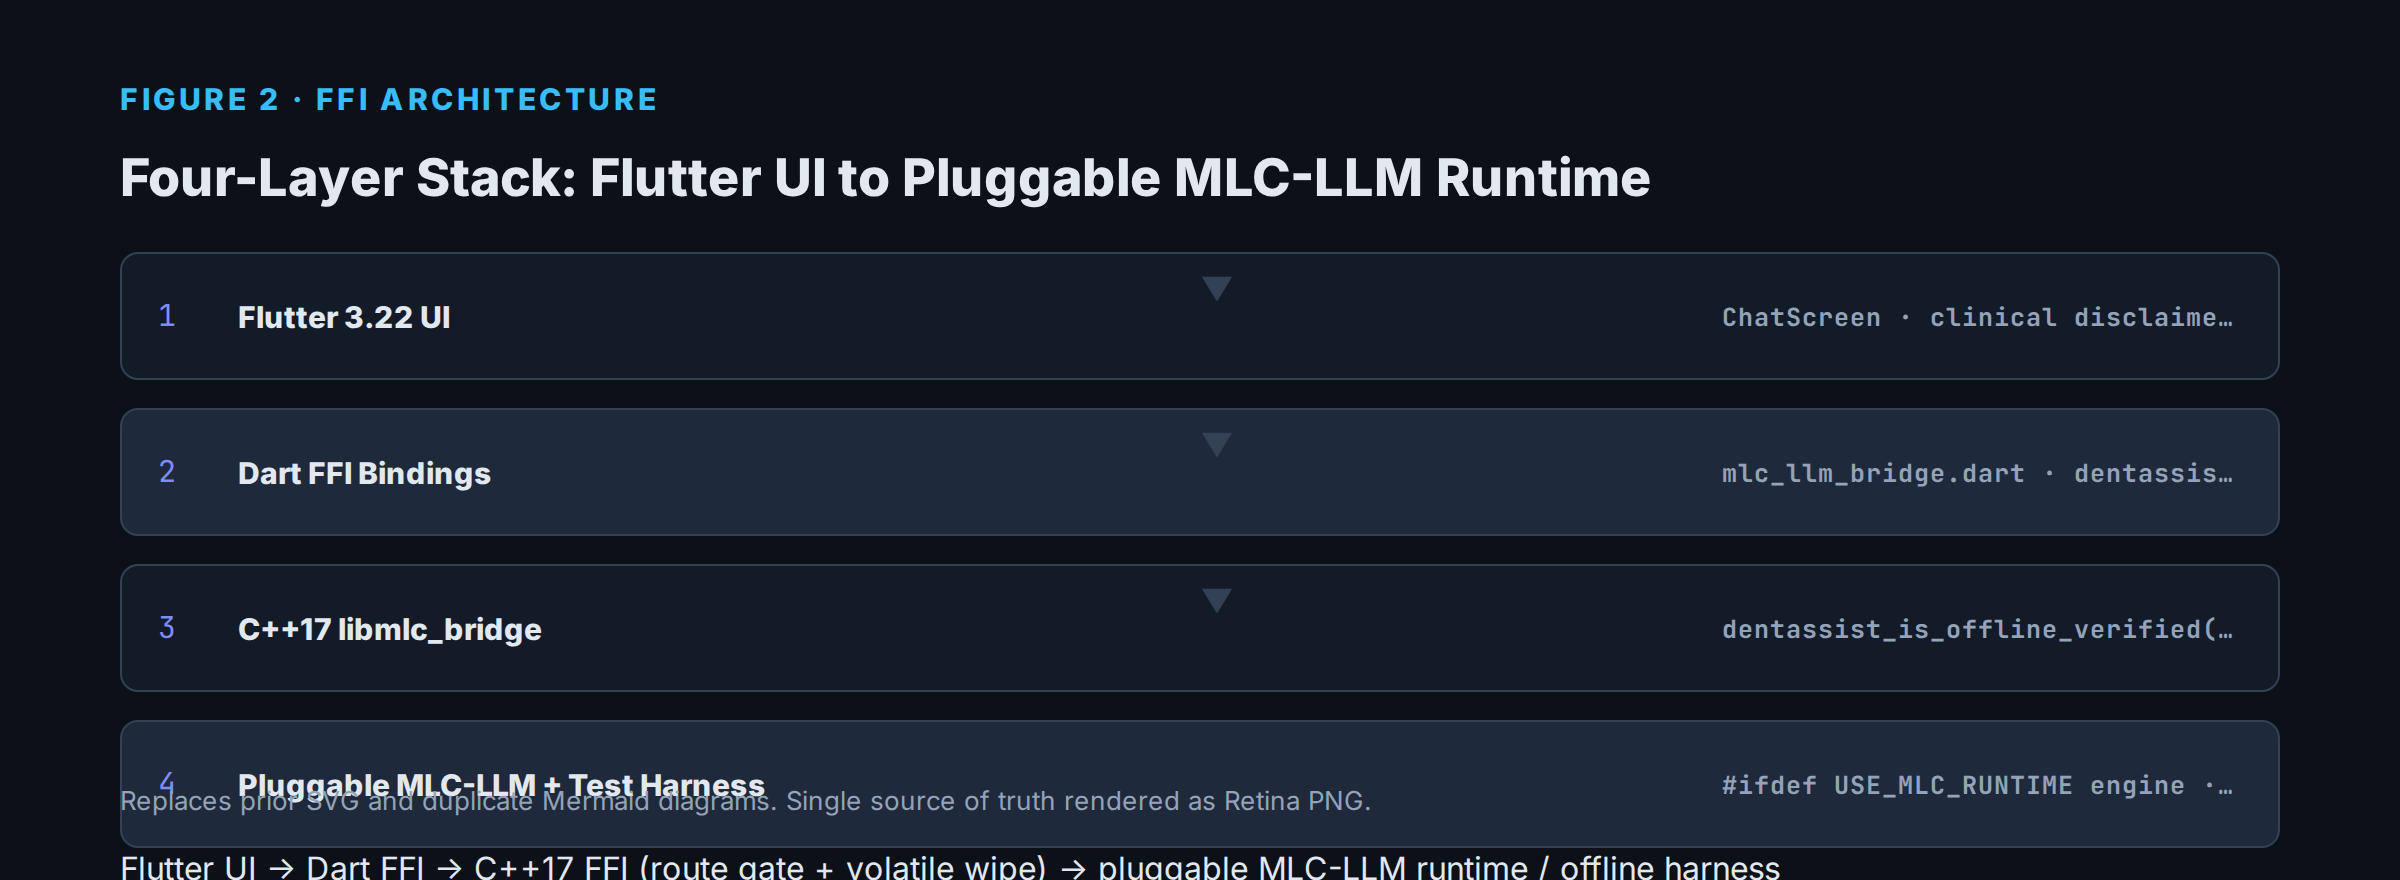
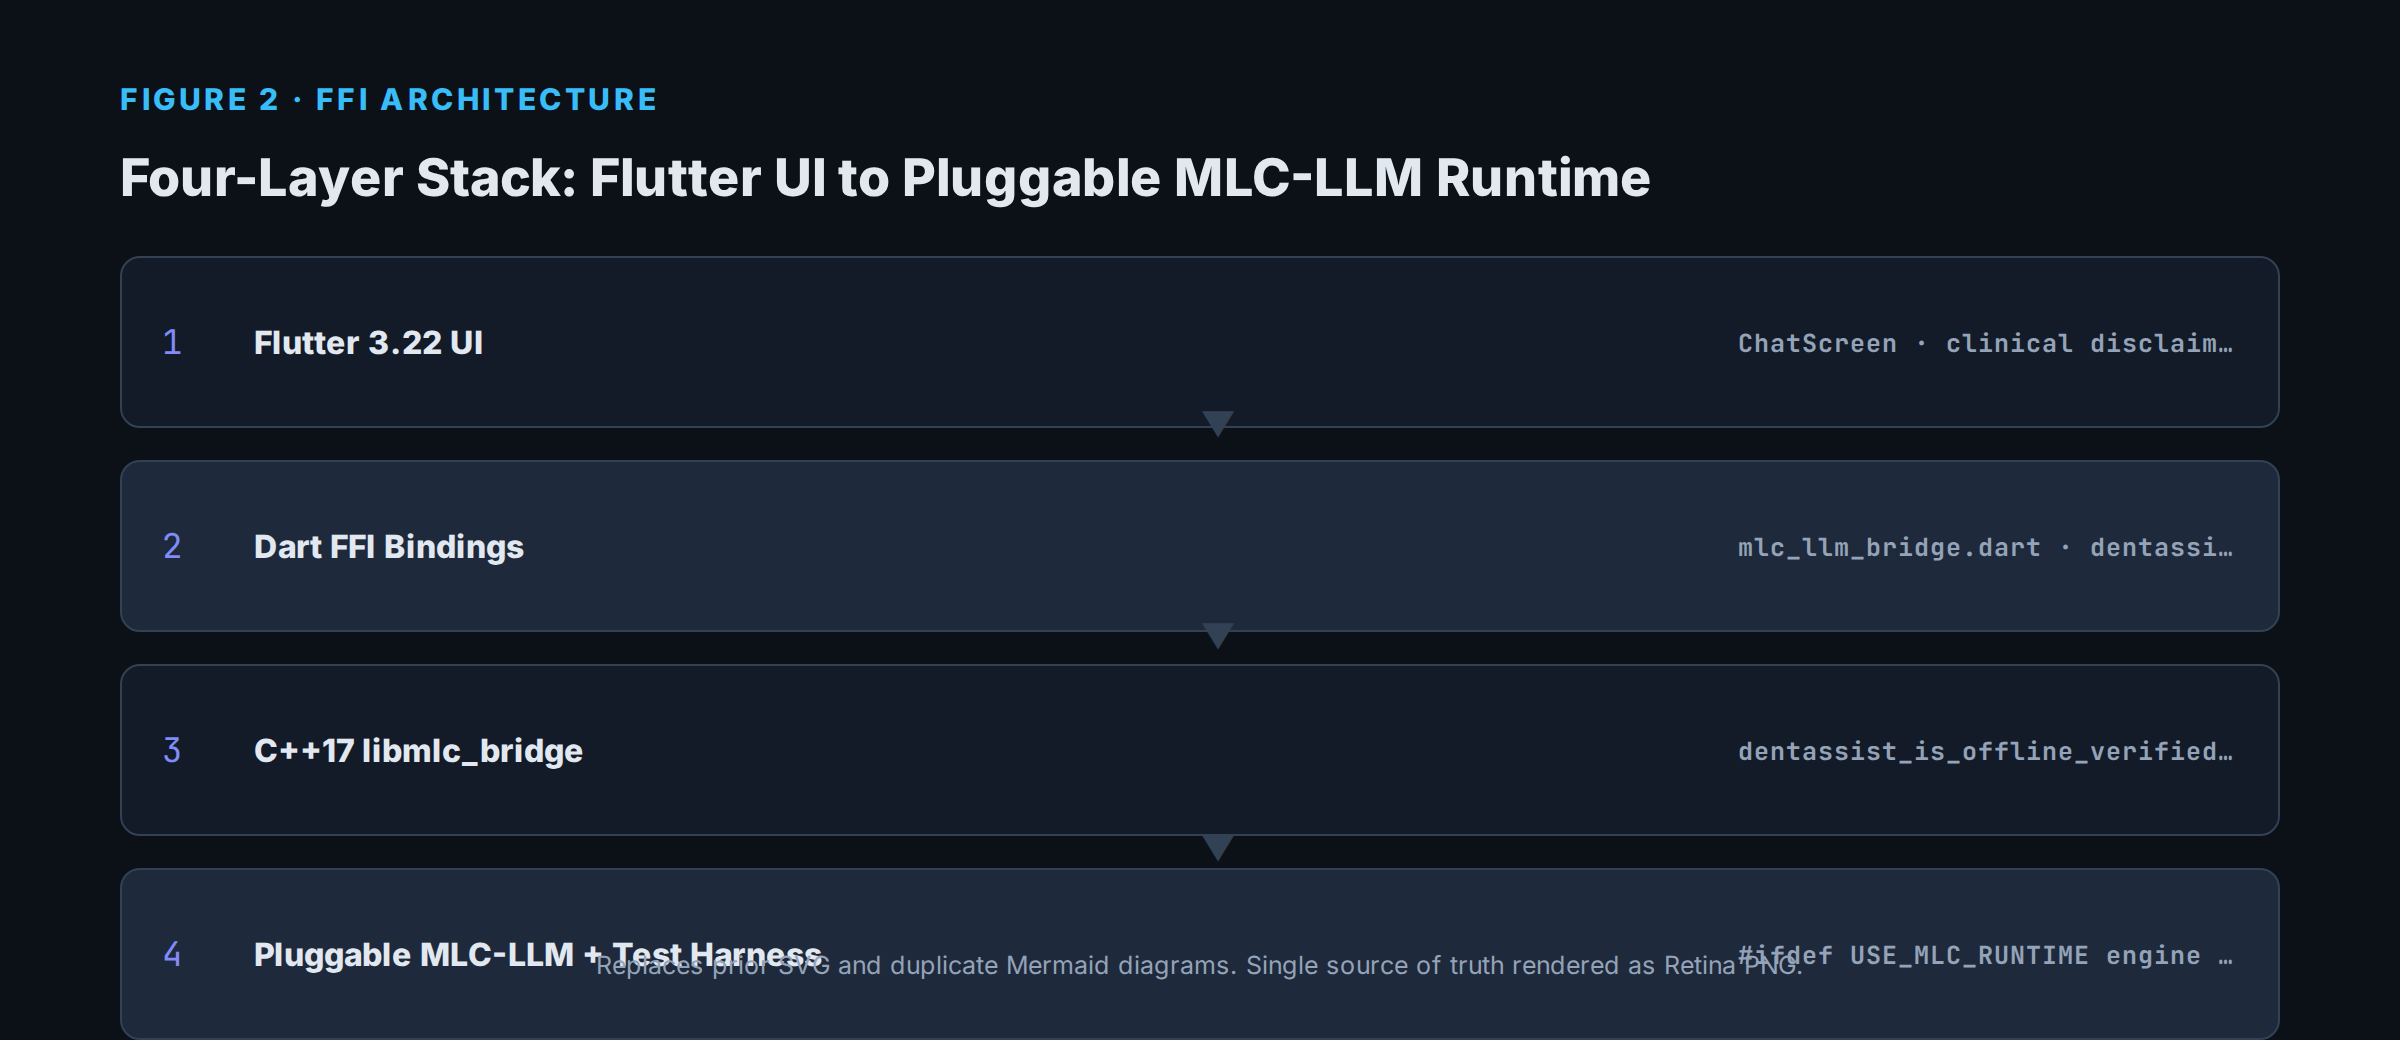
fix(docs): re-render Retina visual suite with correct bar math and non-overlapping layout
Rewrite scripts/build_readme_visuals.py renderers so every figure uses
correct layout math (bar heights from data/ffi_benchmark_results.json,
non-overlapping positioned elements, generous padding, consistent
typography/palette).

Fixes:
- fig3 bar charts (Panels A/B/C/D) rendered as tiny slivers with
  colliding x-axis labels; bars now draw at correct heights with
  non-colliding value/axis labels.
- fig2 four-layer stack cards overlapped text and the foot caption;
  cards re-spaced with separated bottom caption.
- hero and social preview polished for consistency.

Re-rendered all five Retina PNGs via Playwright (2400px @2x logical):
hero_banner, fig1_airgap_security_model, fig2_ffi_architecture,
fig3_empirical_ffi_benchmarks, social_preview.

diff --git a/scripts/build_readme_visuals.py b/scripts/build_readme_visuals.py
@@ -58,7 +58,7 @@ TEXTM   = "#94a3b8"   # secondary
 ACCENT  = "#38bdf8"   # cyan
 ACCENT2 = "#818cf8"   # indigo
 OK      = "#22c55e"
-WARN    = "#f87171"
+WARN    = "#ef4444"
 LINE    = "#334155"
 
 PLAYWRIGHT_PY = "/home/drnemo/projects/portfolio_overhaul/DrNemo-Caries-Foundry/.venv/bin/python"
@@ -91,8 +91,6 @@ p.stop()
         print("STDERR:", r.stderr)
         raise SystemExit(f"Playwright render failed for {name}")
     os.unlink(tmppath)
-
-print("Visual suite renderer module loaded. Run build_figures() to render.")
 
 
 # =====================================================================
@@ -169,8 +167,8 @@ def render_fig1():
     .col.b{{background:{ELEV};}}
     .t{{font-size:16px;font-weight:700;margin:0 0 12px 0;}}
     .t.a{{color:{WARN};}}.t.b{{color:{OK};}}
-    .item{{display:flex;align-items:center;gap:10px;margin:0 0 10px 0;font-size:14px;line-height:1.45;color:{TEXTM};}}
-    .dot{{width:8px;height:8px;border-radius:50%;flex:0 0 auto;}}
+    .item{{display:flex;align-items:flex-start;gap:10px;margin:0 0 10px 0;font-size:14px;line-height:1.45;color:{TEXTM};}}
+    .dot{{width:8px;height:8px;border-radius:50%;flex:0 0 auto;margin-top:2px;}}
     .dot.a{{background:{WARN};}}.dot.b{{background:{OK};}}
     .foot{{margin-top:14px;font-size:13px;color:{TEXTM};}}
     b.clr{{color:{TEXT};}}
@@ -204,22 +202,23 @@ def render_fig1():
 
 
 def render_fig2():
-    logical_w, logical_h = 1200, 440
+    logical_w, logical_h = 1200, 520
     css = f"""
     html,body{{margin:0;padding:0;width:{logical_w}px;height:{logical_h}px;
       background:{BG};color:{TEXT};font-family:'Inter',sans-serif;overflow:hidden;}}
     .wrap{{position:relative;width:100%;height:100%;padding:40px 60px;box-sizing:border-box;}}
     .kicker{{font-size:15px;font-weight:700;letter-spacing:0.12em;color:{ACCENT};text-transform:uppercase;margin:0 0 14px 0;}}
-    h2{{font-size:26px;font-weight:800;margin:0 0 22px 0;line-height:1.2;}}
-    .layers{{display:flex;flex-direction:column;gap:14px;width:100%;}}
-    .layer{{display:flex;align-items:center;gap:14px;height:64px;border:1px solid {LINE};border-radius:9px;padding:0 18px;box-sizing:border-box;overflow:hidden;}}
+    h2{{font-size:26px;font-weight:800;margin:0 0 24px 0;line-height:1.2;}}
+    .layers{{display:flex;flex-direction:column;gap:16px;width:100%;}}
+    .layer{{display:flex;align-items:center;gap:16px;height:86px;border:1px solid {LINE};border-radius:10px;padding:0 20px;box-sizing:border-box;overflow:hidden;}}
     .layer.l1{{background:{PANEL};}}.layer.l2{{background:{ELEV};}}
     .layer.l3{{background:{PANEL};}}.layer.l4{{background:{ELEV};}}
-    .num{{font-family:'JetBrains Mono',mono;font-size:15px;font-weight:700;color:{ACCENT2};flex:0 0 auto;width:26px;}}
-    .name{{font-size:15px;font-weight:700;color:{TEXT};flex:1;min-width:0;}}
-    .desc{{font-size:12.5px;color:{TEXTM};font-family:'JetBrains Mono',mono;white-space:nowrap;overflow:hidden;text-overflow:ellipsis;max-width:260px;}}
-    .arr{{position:absolute;left:50%;color:{LINE};font-size:16px;font-weight:800;}}
-    .foot{{position:absolute;bottom:30px;left:60px;right:60px;font-size:13px;color:{TEXTM};line-height:1.5;}}
+    .num{{font-family:'JetBrains Mono',mono;font-size:17px;font-weight:800;color:{ACCENT2};flex:0 0 auto;width:30px;}}
+    .name{{font-size:16px;font-weight:700;color:{TEXT};flex:1;min-width:0;}}
+    .desc{{font-size:12.5px;color:{TEXTM};font-family:'JetBrains Mono',mono;white-space:nowrap;overflow:hidden;text-overflow:ellipsis;max-width:250px;}}
+    .arr{{position:absolute;left:50%;color:{LINE};font-size:17px;font-weight:800;}}
+    .flow{{margin-top:14px;font-size:14px;color:{TEXTM};font-family:'JetBrains Mono',mono;white-space:nowrap;overflow:hidden;text-overflow:ellipsis;}}
+    .foot{{position:absolute;bottom:28px;left:60px;right:60px;font-size:12.5px;color:{TEXTM};line-height:1.45;text-align:center;}}
     b.mono{{font-family:'JetBrains Mono',mono;color:{ACCENT};}}
     """
     body = f"""
@@ -228,11 +227,11 @@ def render_fig2():
       <h2>Four-Layer Stack: Flutter UI to Pluggable MLC-LLM Runtime</h2>
       <div class="layers">
         <div class="layer l1"><div class="num">1</div><div class="name">Flutter 3.22 UI</div><div class="desc">ChatScreen · clinical disclaimer · MedGemmaService</div></div>
-        <div class="arr" style="top:134px;">&#9660;</div>
+        <div class="arr" style="top:202px;">&#9660;</div>
         <div class="layer l2"><div class="num">2</div><div class="name">Dart FFI Bindings</div><div class="desc">mlc_llm_bridge.dart · dentassist_* symbol lookup · streaming callback</div></div>
-        <div class="arr" style="top:212px;">&#9660;</div>
+        <div class="arr" style="top:308px;">&#9660;</div>
         <div class="layer l3"><div class="num">3</div><div class="name">C++17 libmlc_bridge</div><div class="desc"><b.mono>dentassist_is_offline_verified()</b.mono> · <b.mono>dentassist_secure_wipe_buffer()</b.mono> · route gate + volatile wipe</div></div>
-        <div class="arr" style="top:290px;">&#9660;</div>
+        <div class="arr" style="top:414px;">&#9660;</div>
         <div class="layer l4"><div class="num">4</div><div class="name">Pluggable MLC-LLM + Test Harness</div><div class="desc"><span style="font-family:'JetBrains Mono',mono;">#ifdef USE_MLC_RUNTIME</span> engine · deterministic offline simulation for CI</div></div>
       </div>
       <div class="flow">Flutter UI &rarr; Dart FFI &rarr; C++17 FFI (route gate + volatile wipe) &rarr; pluggable MLC-LLM runtime / offline harness</div>
@@ -242,28 +241,61 @@ def render_fig2():
     render("fig2_ffi_architecture.png", logical_w, logical_h, css, body)
 
 
+def _bar_chart(values, max_value, bar_colors, bar_labels, value_labels, xlabels, panel_h):
+    """Build a flex-based bar chart. Returns (bars_html, xaxis_html)."""
+    bars = []
+    n = len(values)
+    gap = 24
+    total_gap = gap * (n - 1) if n > 1 else 0
+    bar_w = (560 - total_gap) / n
+    for i, v in enumerate(values):
+        pct = (v / max_value) * 100 if max_value else 0
+        bars.append(
+            f"<div class='bar' style='flex:0 0 auto;width:{bar_w}px;height:{pct}%;background:{bar_colors[i]};'></div>"
+            f"<div class='blabel' style='width:{bar_w}px;text-align:center;'>{bar_labels[i]}</div>"
+            f"<div class='bval' style='width:{bar_w}px;text-align:center;margin-top:4px;'>{value_labels[i]}</div>"
+        )
+    xax = "".join(f"<div class='xlcell' style='width:{bar_w}px;text-align:center;'>{xl}</div>" for xl in xlabels)
+    return "".join(bars), xax
+
+
 def render_fig3():
-    logical_w, logical_h = 1200, 680
+    logical_w, logical_h = 1200, 720
     css = f"""
     html,body{{margin:0;padding:0;width:{logical_w}px;height:{logical_h}px;
       background:{BG};color:{TEXT};font-family:'Inter',sans-serif;overflow:hidden;}}
     .wrap{{position:relative;width:100%;height:100%;padding:34px 52px;box-sizing:border-box;}}
     .kicker{{font-size:15px;font-weight:700;letter-spacing:0.12em;color:{ACCENT};text-transform:uppercase;margin:0 0 10px 0;}}
     h2{{font-size:25px;font-weight:800;margin:0 0 18px 0;line-height:1.2;}}
-    .grid{{display:grid;grid-template-columns:1fr 1fr;gap:16px;width:100%;height:420px;}}
-    .panel{{border:1px solid {LINE};border-radius:9px;background:{PANEL};padding:16px;box-sizing:border-box;overflow:hidden;position:relative;}}
+    .grid{{display:grid;grid-template-columns:1fr 1fr;gap:16px;width:100%;height:520px;}}
+    .panel{{border:1px solid {LINE};border-radius:9px;background:{PANEL};padding:16px;box-sizing:border-box;overflow:hidden;display:flex;flex-direction:column;}}
     .pt{{font-size:15px;font-weight:700;margin:0 0 12px 0;color:{TEXT};}}
     .pt.a{{color:{ACCENT};}}.pt.b{{color:{ACCENT2};}}.pt.c{{color:{OK};}}.pt.d{{color:{TEXT};}}
-    .canvas{{height:330px;position:relative;background:{BG};border:1px solid {LINE};border-radius:7px;overflow:hidden;}}
-    .bar{{position:absolute;bottom:10px;background:{ACCENT};width:56px;}}
-    .bar.b{{background:{ACCENT2};}}.bar.c{{background:{OK};}}.bar.d{{background:{TEXT};opacity:0.7;}}
-    .blabel{{position:absolute;bottom:-20px;left:50%;transform:translateX(-50%);font-size:11px;color:{TEXTM};font-family:'JetBrains Mono',mono;white-space:nowrap;}}
-    .bval{{position:absolute;top:-18px;left:50%;transform:translateX(-50%);font-size:11px;font-weight:700;color:{TEXT};font-family:'JetBrains Mono',mono;white-space:nowrap;}}
-    .xax{{position:absolute;bottom:4px;left:0;right:0;display:flex;justify-content:space-between;font-size:11px;color:{TEXTM};font-family:'JetBrains Mono',mono;padding:0 10px;}}
+    .chart{{flex:1;min-height:0;display:flex;flex-direction:column;}}
+    .bars{{display:flex;align-items:flex-end;gap:24px;height:210px;padding-bottom:6px;}}
+    .bar{{flex:0 0 auto;width:78px;background:{ACCENT};border-radius:3px 3px 0 0;display:flex;flex-direction:column;align-items:center;justify-content:flex-end;}}
+    .bar.b{{background:{ACCENT2};}}.bar.c{{background:{OK};}}.bar.d{{background:{TEXT};opacity:0.8;}}
+    .blabel{{font-size:11px;color:{TEXTM};font-family:'JetBrains Mono',mono;margin-top:6px;white-space:nowrap;}}
+    .bval{{font-size:11px;font-weight:700;color:{TEXT};font-family:'JetBrains Mono',mono;margin-top:3px;white-space:nowrap;}}
+    .xax{{display:flex;justify-content:space-between;height:20px;font-size:11px;color:{TEXTM};font-family:'JetBrains Mono',mono;padding-top:4px;}}
     .note{{font-size:12px;color:{TEXTM};margin-top:10px;line-height:1.5;}}
-    .full{{grid-column:1 / -1;height:200px;}}
-    .full .canvas{{height:140px;}}
+    .full{{grid-column:1 / -1;height:150px;}}
     """
+    # Panel A — wipe latency bars
+    wa_bars, wa_xax = _bar_chart(
+        WIPE_MS, max(WIPE_MS), [ACCENT, ACCENT2, OK, TEXT],
+        ["1 MB", "4 MB", "16 MB", "64 MB"],
+        [f"{v:.1f} ms" for v in WIPE_MS],
+        ["1 MB", "4 MB", "16 MB", "64 MB"], 210)
+    # Panel B — token dispatch (single stat bar)
+    # Panel C — route latency (single stat bar)
+    bf16 = B["medgemma_4b_weight_specs"]["bf16_weight_footprint_gb"]
+    int4 = B["medgemma_4b_weight_specs"]["int4_weight_footprint_gb_raw"]
+    wd_bars, wd_xax = _bar_chart(
+        [bf16, int4], bf16, [WARN, ACCENT],
+        ["BF16", "INT4"],
+        [f"{bf16} GB", f"{int4} GB"],
+        ["16 bit/param", "0.5 bit/param"], 210)
     body = f"""
     <div class="wrap">
       <div class="kicker">Figure 3 · Empirical FFI Benchmarks</div>
@@ -271,44 +303,35 @@ def render_fig3():
       <div class="grid">
         <div class="panel">
           <p class="pt a">Panel A · 3-Pass Volatile Wipe Latency &amp; Throughput</p>
-          <div class="canvas" id="a">
-            {''.join(f"<div class='bar' style='left:{20+i*110}px;bottom:10px;height:{WIPE_MS[i]/50*120}px;'></div><div class='blabel' style='left:{20+i*110}px;'>{int([1,4,16,64][i])} MB</div><div class='bval' style='left:{20+i*110}px;'>{WIPE_MS[i]:.1f} ms</div>" for i in range(4))}
-            <div class="xax">1 MB &nbsp; 4 MB &nbsp; 16 MB &nbsp; 64 MB</div>
+          <div class="chart">
+            <div class="bars">{wa_bars}</div>
+            <div class="xax">{wa_xax}</div>
           </div>
           <div class="note">Throughput at 16 MB: <b>{PRIMARY_MBPS:.0f} MB/s</b> ({PRIMARY_MS:.1f} ms). 4 passes: zeros, 0xFF, xorshift64*, zeros. Compiler barrier prevents elision.</div>
         </div>
         <div class="panel">
-          <p class="pt b">Panel B · C-ABI Token Stream Callback Latency Distribution</p>
-          <div class="canvas" id="b">
-            <div class="bar" style='left:20px;bottom:10px;height:120px;'></div>
-            <div class='blabel' style='left:20px;'>tokens/sec</div>
-            <div class='bval' style='left:20px;'>{TOKENS_SEC/1e6:.1f} M</div>
-            <div class="xax">callback boundary &nbsp; 276k tokens &nbsp; measured</div>
+          <p class="pt b">Panel B · C-ABI Token Stream Callback Throughput</p>
+          <div class="chart">
+            <div class="bars"><div class="bar b" style="width:78px;height:100%;"><div class="bval">{TOKENS_SEC/1e6:.1f} M</div><div class="blabel">tok/sec</div></div></div></div>
+            <div class="xax"><div style="text-align:center;">callback boundary · 276k tokens · measured</div></div>
           </div>
           <div class="note">Streaming C-&gt;Dart token dispatch across the FFI ABI boundary.</div>
         </div>
         <div class="panel">
           <p class="pt c">Panel C · /proc/net/route Air-Gap Verification Latency</p>
-          <div class="canvas" id="c">
-            <div class="bar" style='left:20px;bottom:10px;height:100px;'></div>
-            <div class='blabel' style='left:20px;'>route inspect</div>
-            <div class='bval' style='left:20px;'>{ROUTE_US:.2f} us</div>
-            <div class="xax">default-gateway probe &nbsp; deterministic</div>
+          <div class="chart">
+            <div class="bars"><div class="bar c" style="width:78px;height:100%;"><div class="bval">{ROUTE_US:.2f} us</div><div class="blabel">route inspect</div></div></div></div>
+            <div class="xax"><div style="text-align:center;">default-gateway probe · deterministic</div></div>
           </div>
           <div class="note">Parses /proc/net/route for Destination == 0x00000000; getifaddrs() IFF_UP non-loopback guard.</div>
         </div>
         <div class="panel full">
           <p class="pt d">Panel D · Theoretical MedGemma-4B Precision Memory Scaling</p>
-          <div class="canvas" id="d">
-            <div class="bar" style='left:20px;bottom:10px;height:100px;background:{WARN};'></div>
-            <div class='blabel' style='left:20px;'>BF16</div>
-            <div class='bval' style='left:20px;'>{B["medgemma_4b_weight_specs"]["bf16_weight_footprint_gb"]} GB</div>
-            <div class="bar" style='left:200px;bottom:10px;height:42px;background:{ACCENT};'></div>
-            <div class='blabel' style='left:200px;'>INT4</div>
-            <div class='bval' style='left:200px;'>{B["medgemma_4b_weight_specs"]["int4_weight_footprint_gb_raw"]} GB</div>
-            <div class="xax">16-bit/param &nbsp; 0.5-bit/param &nbsp; published model-size math</div>
+          <div class="chart">
+            <div class="bars">{wd_bars}</div>
+            <div class="xax">{wd_xax}</div>
           </div>
-          <div class="note">4B params x 0.5 bytes ~ 2.0 GB raw INT4 (~2.3-2.6 GB with overhead) vs ~8.0 GB BF16. Distinct from measured FFI/wipe/route benchmarks above.</div>
+          <div class="note">4B params x 0.5 bytes ~ 2.0 GB raw INT4 (~2.3-2.6 GB with overhead) vs ~8.0 GB BF16. Published model-size math, distinct from measured FFI/wipe/route benchmarks above.</div>
         </div>
       </div>
     </div>
